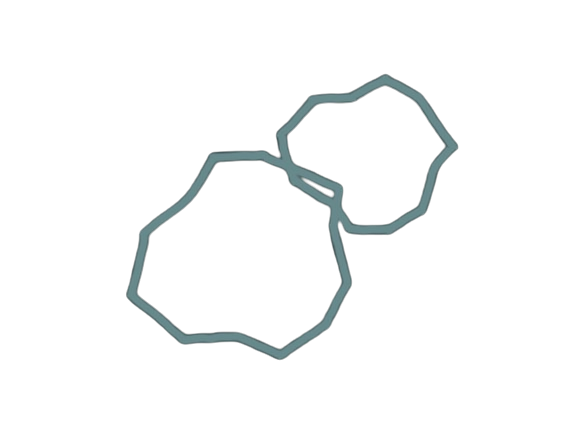
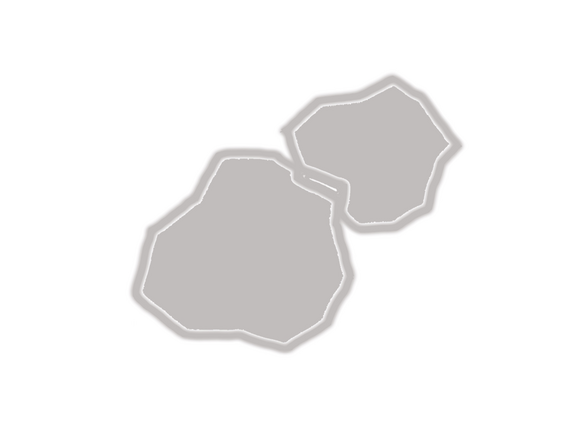
added resource loading for all planet debris texture

Changed region(s): [[0.2184, 0.1501, 0.8111, 0.8406]]

diff --git a/core/src/com/mygdx/gamelayer/simulation/AppSimulation.java b/core/src/com/mygdx/gamelayer/simulation/AppSimulation.java
@@ -19,6 +19,7 @@ import com.mygdx.gameengine.models.Sound;
 import com.mygdx.gamelayer.factories.SpaceEntityFactory;
 import com.mygdx.gamelayer.models.JSONReader;
 import com.mygdx.gamelayer.models.Planet;
+import com.mygdx.gamelayer.models.Projectile;
 import com.mygdx.gamelayer.models.SpaceTexture;
 import com.mygdx.gamelayer.screens.*;
 public class AppSimulation extends Simulation {
@@ -35,11 +36,12 @@ public class AppSimulation extends Simulation {
 	
 	private Sound bgSSMusic, bgGSMusic, bgESMusic;
 	
-	private SpaceTexture playerModel, debrisModel, startButtonModel, statsButtonModel, quitButtonModel;
+	private SpaceTexture playerModel, projectileModel, startButtonModel, statsButtonModel, quitButtonModel;
 	private SpaceTexture mercuryButtonModel, venusButtonModel, earthButtonModel, marsButtonModel, jupiterButtonModel, saturnButtonModel, uranusButtonModel, neptuneButtonModel, backButtonModel, continueButtonModel;
 	private SpaceTexture bgSSImage, bgLSSImage, bgLCImage, bgStatsImage, bgGSImage;
 	private SpaceTexture mercuryPlanetModel, venusPlanetModel, earthPlanetModel, marsPlanetModel, jupiterPlanetModel, saturnPlanetModel, uranusPlanetModel, neptunePlanetModel;
 	private SpaceTexture mercuryDebrisModel, venusDebrisModel, earthDebrisModel, marsDebrisModel, jupiterDebrisModel, saturnDebrisModel, uranusDebrisModel, neptuneDebrisModel;
+	private SpaceTexture mercuryDebris2Model, venusDebris2Model, earthDebris2Model, marsDebris2Model, jupiterDebris2Model, saturnDebris2Model, uranusDebris2Model, neptuneDebris2Model;
 
 	
 	private SpaceEntityFactory spaceEntityFactory;
@@ -68,7 +70,18 @@ public class AppSimulation extends Simulation {
 	private final String IMAGE_SATURN_DEBRIS_PATH = String.format("%s/saturn_debris.png", IMAGE_PATH);
 	private final String IMAGE_URANUS_DEBRIS_PATH = String.format("%s/uranus_debris.png", IMAGE_PATH);
 	private final String IMAGE_NEPTUNE_DEBRIS_PATH = String.format("%s/neptune_debris.png", IMAGE_PATH);
-
+	
+	private final String IMAGE_MERCURY_DEBRIS_2_PATH = String.format("%s/mercury_debris_2.png", IMAGE_PATH);
+	private final String IMAGE_VENUS_DEBRIS_2_PATH = String.format("%s/venus_debris_2.png", IMAGE_PATH);
+	private final String IMAGE_EARTH_DEBRIS_2_PATH = String.format("%s/earth_debris_2.png", IMAGE_PATH);
+	private final String IMAGE_MARS_DEBRIS_2_PATH = String.format("%s/mars_debris_2.png", IMAGE_PATH);
+	private final String IMAGE_JUPITER_DEBRIS_2_PATH = String.format("%s/jupiter_debris_2.png", IMAGE_PATH);
+	private final String IMAGE_SATURN_DEBRIS_2_PATH = String.format("%s/saturn_debris_2.png", IMAGE_PATH);
+	private final String IMAGE_URANUS_DEBRIS_2_PATH = String.format("%s/uranus_debris_2.png", IMAGE_PATH);
+	private final String IMAGE_NEPTUNE_DEBRIS_2_PATH = String.format("%s/neptune_debris_2.png", IMAGE_PATH);
+	
+	// Projectile resource
+	private final String IMAGE_PROJECTILE_PATH = String.format("%s/projectile.png", IMAGE_PATH);
 	
 	// generic menu buttons
 	private final String IMAGE_STARTBUTTON_PATH = String.format("%s/start_button.png", IMAGE_PATH);
@@ -168,7 +181,11 @@ public class AppSimulation extends Simulation {
 			backButtonModel = new SpaceTexture(IMAGE_BACKBUTTON_PATH);
 			continueButtonModel = new SpaceTexture(IMAGE_CONTINUEBUTTON_PATH);
 			
+			// Player Model
 			playerModel = new SpaceTexture(IMAGE_PLAYER_PATH);
+			
+			// Projectile Model
+			projectileModel = new SpaceTexture(IMAGE_PROJECTILE_PATH);
 			
 			// Debris Model
 			mercuryDebrisModel = new SpaceTexture(IMAGE_MERCURY_DEBRIS_PATH);
@@ -179,6 +196,15 @@ public class AppSimulation extends Simulation {
 			saturnDebrisModel = new SpaceTexture(IMAGE_SATURN_DEBRIS_PATH);
 			uranusDebrisModel = new SpaceTexture(IMAGE_URANUS_DEBRIS_PATH);
 			neptuneDebrisModel = new SpaceTexture(IMAGE_NEPTUNE_DEBRIS_PATH);
+			
+			mercuryDebris2Model = new SpaceTexture(IMAGE_MERCURY_DEBRIS_2_PATH);
+			venusDebris2Model = new SpaceTexture(IMAGE_VENUS_DEBRIS_2_PATH);
+			earthDebris2Model = new SpaceTexture(IMAGE_EARTH_DEBRIS_2_PATH);
+			marsDebris2Model = new SpaceTexture(IMAGE_MARS_DEBRIS_2_PATH);
+			jupiterDebris2Model = new SpaceTexture(IMAGE_JUPITER_DEBRIS_2_PATH);
+			saturnDebris2Model = new SpaceTexture(IMAGE_SATURN_DEBRIS_2_PATH);
+			uranusDebris2Model = new SpaceTexture(IMAGE_URANUS_DEBRIS_2_PATH);
+			neptuneDebris2Model = new SpaceTexture(IMAGE_NEPTUNE_DEBRIS_2_PATH);
 			
 			// planet button models
 			mercuryButtonModel = new SpaceTexture(IMAGE_MERCURY_PATH);
@@ -212,6 +238,8 @@ public class AppSimulation extends Simulation {
 			
 			oManager.add("PlayerTexture", playerModel);
 			
+			oManager.add("ProjectileTexture", projectileModel);
+			
 			oManager.add("MercuryDebrisTexture", mercuryDebrisModel);
 			oManager.add("VenusDebrisTexture", venusDebrisModel);
 			oManager.add("EarthDebrisTexture", earthDebrisModel);
@@ -220,6 +248,15 @@ public class AppSimulation extends Simulation {
 			oManager.add("SaturnDebrisTexture", saturnDebrisModel);
 			oManager.add("UranusDebrisTexture", uranusDebrisModel);
 			oManager.add("NeptuneDebrisTexture", neptuneDebrisModel);
+			
+			oManager.add("MercuryDebris2Texture", mercuryDebris2Model);
+			oManager.add("VenusDebris2Texture", venusDebris2Model);
+			oManager.add("EarthDebris2Texture", earthDebris2Model);
+			oManager.add("MarsDebris2Texture", marsDebris2Model);
+			oManager.add("JupiterDebris2Texture", jupiterDebris2Model);
+			oManager.add("SaturnDebris2Texture", saturnDebris2Model);
+			oManager.add("UranusDebris2Texture", uranusDebris2Model);
+			oManager.add("NeptuneDebris2Texture", neptuneDebris2Model);
 			
 			oManager.add("StartButtonTexture", startButtonModel);
 			oManager.add("StatsButtonTexture", statsButtonModel);
@@ -282,6 +319,7 @@ public class AppSimulation extends Simulation {
 
 		} catch(Exception ex) {
 			System.out.println("INIT ERROR - Unable to load resources, check resource paths.");
+			ex.printStackTrace();
 			dispose();
 			System.exit(0);
 		}

diff --git a/core/src/com/mygdx/gamelayer/models/Projectile.java b/core/src/com/mygdx/gamelayer/models/Projectile.java
@@ -2,6 +2,7 @@ package com.mygdx.gamelayer.models;
 
 import com.badlogic.gdx.Gdx;
 import com.badlogic.gdx.graphics.Color;
+import com.badlogic.gdx.graphics.Texture;
 import com.badlogic.gdx.graphics.g2d.SpriteBatch;
 import com.badlogic.gdx.graphics.glutils.ShapeRenderer;
 import com.badlogic.gdx.math.Rectangle;
@@ -38,6 +39,23 @@ public class Projectile extends Entity implements iProjectile {
 			int speedMultiplier) {
 		
 		super(positionX, positionY, width, height, colour);
+		this.boundingBox = new Rectangle(positionX, positionY, width, height);
+		this.collidable = collidable;
+		this.speedMultiplier = speedMultiplier;
+		this.aiControl = aiControl;
+	}
+	
+	public Projectile(
+			Texture texture,
+			float positionX, 
+			float positionY, 
+			float width,
+			float height,
+			boolean collidable,
+			boolean aiControl,
+			int speedMultiplier) {
+		
+		super(texture, positionX, positionY, width, height);
 		this.boundingBox = new Rectangle(positionX, positionY, width, height);
 		this.collidable = collidable;
 		this.speedMultiplier = speedMultiplier;

diff --git a/core/src/com/mygdx/gamelayer/factories/SpaceEntityFactory.java b/core/src/com/mygdx/gamelayer/factories/SpaceEntityFactory.java
@@ -130,11 +130,11 @@ public class SpaceEntityFactory {
 	    	switch (entityType) {
 		        case "Projectile":
 		        	return new Projectile(
+		        			(SpaceTexture)ioManager.getOutputManager().retrieve("ProjectileTexture"), 
 		        			dynamicValue1 + DEFAULT_PROJECTILE_XOFFSET, 
 		        			dynamicValue2 + DEFAULT_PROJECTILE_YOFFSET, 
 		            		DEFAULT_PROJECTILE_WIDTH, 
 		            		DEFAULT_PROJECTILE_HEIGHT, 
-		            		Color.GREEN, // change later on
 		            		COLLIDABLE, 
 		            		AI_CONTROL, 
 		            		DEFAULT_PROJECTILE_SPEED);

diff --git a/core/src/com/mygdx/gamelayer/managers/SpaceEntityManager.java b/core/src/com/mygdx/gamelayer/managers/SpaceEntityManager.java
@@ -49,7 +49,9 @@ public class SpaceEntityManager extends EntityManager{
 			    if (entity instanceof Debris) {
 			        entity.draw(batch, entity.getWidth(), entity.getHeight());
 			    }
-				
+			    if (entity instanceof Projectile) {
+			        entity.draw(batch, entity.getWidth(), entity.getHeight());
+			    }
 			}
 		}
 	}
@@ -67,9 +69,6 @@ public class SpaceEntityManager extends EntityManager{
 			        ((Player)entity).getStaminaBar().draw(shape);
 			    }
 
-			    if (entity instanceof Projectile) {
-			        entity.draw(shape);
-			    }
 			
 		}
 	}
